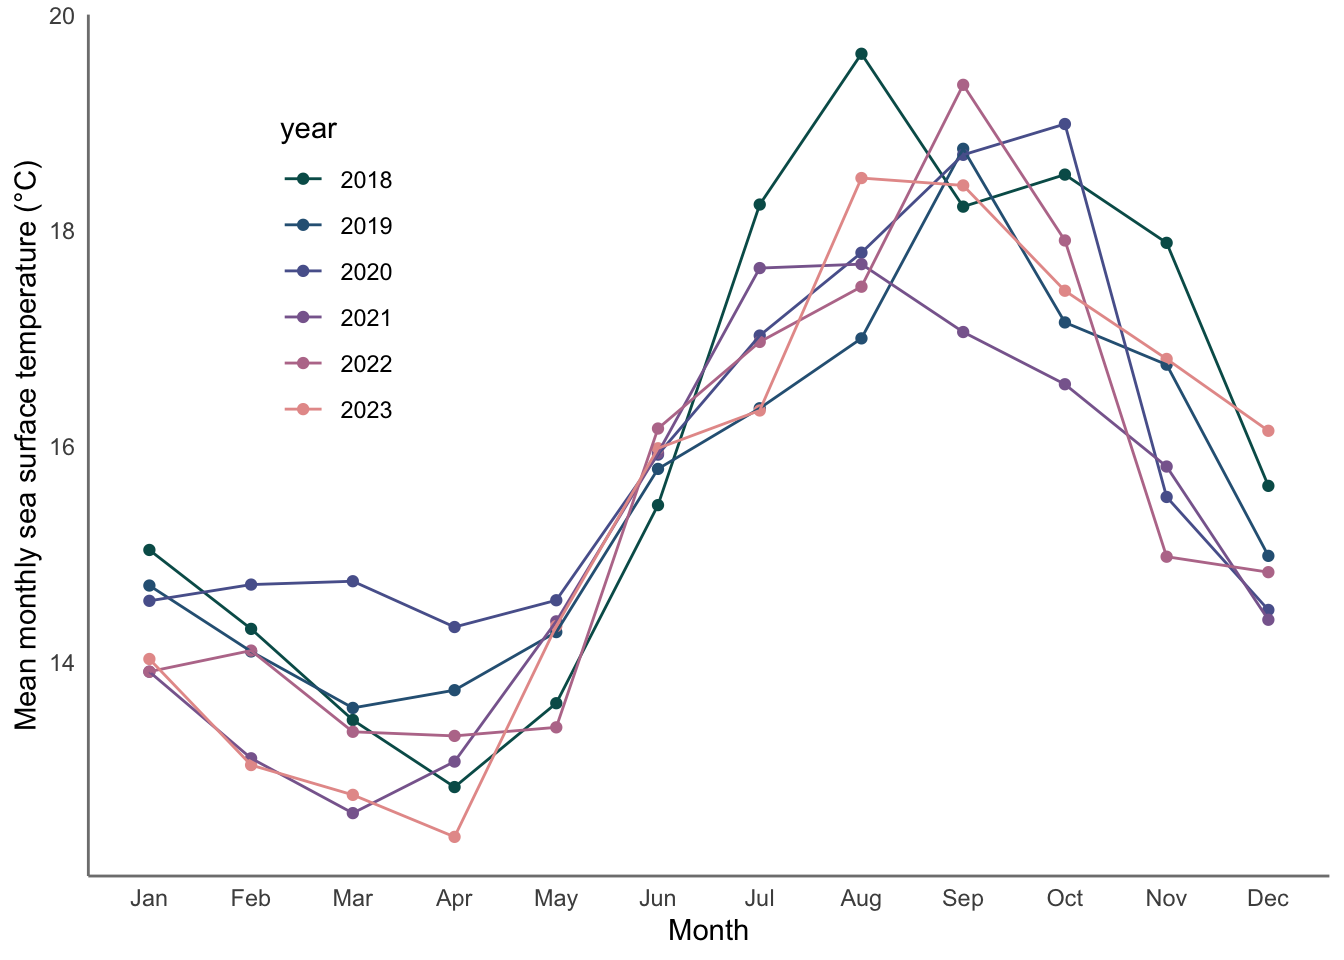
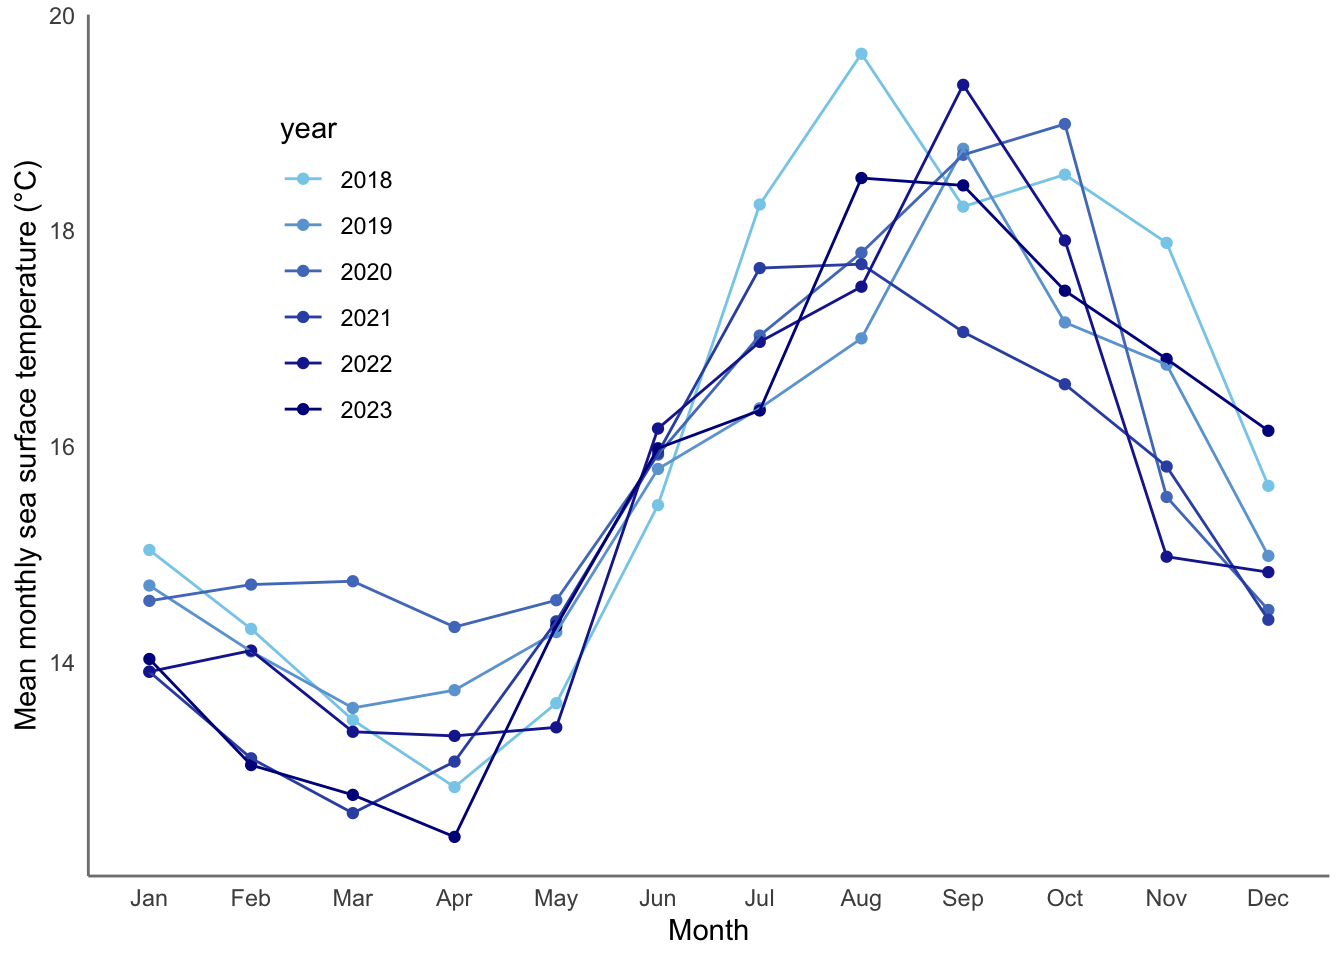
h. visualizing model predictions

diff --git a/code/Final.html b/code/Final.html
@@ -203,16 +203,16 @@ pre > code.sourceCode > span > a:first-child::before { text-decoration: underlin
 # Groups:   year [6]
     year month mean_monthly_sst
    &lt;dbl&gt; &lt;ord&gt;            &lt;dbl&gt;
- 1  2018 Jan               15.0
+ 1  2018 Dec               15.6
  2  2018 Feb               14.3
- 3  2018 Nov               17.9
- 4  2018 Dec               15.6
- 5  2018 Jun               15.5
- 6  2019 Aug               17.0
+ 3  2018 Mar               13.5
+ 4  2018 Aug               19.6
+ 5  2018 Apr               12.8
+ 6  2019 Apr               13.7
  7  2019 Dec               15.0
- 8  2019 Jun               15.8
- 9  2019 Oct               17.1
-10  2019 Apr               13.7
+ 8  2019 Mar               13.6
+ 9  2019 Jun               15.8
+10  2019 May               14.3
 # ℹ 20 more rows</code></pre>
 </div>
 <div class="sourceCode cell-code" id="cb5"><pre class="sourceCode r code-with-copy"><code class="sourceCode r"><span id="cb5-1"><a href="#cb5-1" aria-hidden="true" tabindex="-1"></a><span class="co"># Show structure</span></span>
@@ -252,7 +252,7 @@ pre > code.sourceCode > span > a:first-child::before { text-decoration: underlin
 <span id="cb7-11"><a href="#cb7-11" aria-hidden="true" tabindex="-1"></a>  <span class="fu">labs</span>(<span class="at">x =</span> <span class="st">"Month"</span>,</span>
 <span id="cb7-12"><a href="#cb7-12" aria-hidden="true" tabindex="-1"></a>       <span class="at">y =</span> <span class="st">"Mean monthly sea surface temperature (°C)"</span>) <span class="sc">+</span></span>
 <span id="cb7-13"><a href="#cb7-13" aria-hidden="true" tabindex="-1"></a>  <span class="fu">theme_minimal</span>()<span class="sc">+</span></span>
-<span id="cb7-14"><a href="#cb7-14" aria-hidden="true" tabindex="-1"></a>  <span class="fu">scale_color_manual</span>(<span class="at">values =</span> <span class="fu">pnw_palette</span>(<span class="st">"Starfish"</span>, <span class="dv">6</span>))<span class="sc">+</span></span>
+<span id="cb7-14"><a href="#cb7-14" aria-hidden="true" tabindex="-1"></a>  <span class="fu">scale_color_manual</span>(<span class="at">values =</span> <span class="fu">colorRampPalette</span>(<span class="fu">c</span>(<span class="st">"skyblue"</span>, <span class="st">"darkblue"</span>))(<span class="dv">6</span>))<span class="sc">+</span></span>
 <span id="cb7-15"><a href="#cb7-15" aria-hidden="true" tabindex="-1"></a>  <span class="fu">theme</span>(</span>
 <span id="cb7-16"><a href="#cb7-16" aria-hidden="true" tabindex="-1"></a>    <span class="at">legend.position =</span> <span class="fu">c</span>(<span class="fl">0.2</span>, <span class="fl">0.7</span>),</span>
 <span id="cb7-17"><a href="#cb7-17" aria-hidden="true" tabindex="-1"></a>    <span class="at">panel.grid =</span> <span class="fu">element_blank</span>(),</span>
@@ -339,16 +339,16 @@ pre > code.sourceCode > span > a:first-child::before { text-decoration: underlin
 <div class="sourceCode cell-code" id="cb11"><pre class="sourceCode r code-with-copy"><code class="sourceCode r"><span id="cb11-1"><a href="#cb11-1" aria-hidden="true" tabindex="-1"></a>  <span class="fu">slice_sample</span>(clean_data, <span class="at">n =</span> <span class="dv">10</span>)</span></code><button title="Copy to Clipboard" class="code-copy-button"><i class="bi"></i></button></pre></div>
 <div class="cell-output cell-output-stdout">
 <pre><code>        box season edge_distance    box_occupant
-1  boxrh116   2019           309    swift parrot
-2   boxrh97   2019           118    swift parrot
-3   boxrh70   2019           135 common starling
-4   boxrh04   2019           808     tree martin
-5  boxrh114   2016           373     tree martin
-6  boxrh129   2016           577     tree martin
-7   boxrh31   2019           718     tree martin
-8  boxrh103   2019           145 common starling
-9   boxrh84   2019           370    swift parrot
-10 boxrh114   2019           373 common starling</code></pre>
+1   boxrh70   2016           135     tree martin
+2   boxrh12   2019           697     tree martin
+3  boxrh117   2019           296 common starling
+4  boxrh134   2016           277    swift parrot
+5  boxrh128   2019           544     tree martin
+6   boxrh69   2016           115     tree martin
+7   boxrh95   2016           114    swift parrot
+8  boxrh135   2019           250    swift parrot
+9   boxrh42   2019           731     tree martin
+10  boxrh55   2019            84 common starling</code></pre>
 </div>
 </div>
 </section>
@@ -401,6 +401,19 @@ pre > code.sourceCode > span > a:first-child::before { text-decoration: underlin
 <p>Using Akaike’s Information Criterion (AIC) from the&nbsp;<code>MuMIn</code>&nbsp;package, choose the best model.</p>
 <p>In text, write what the best model was (i.e.&nbsp;“The best model as determined by Akaike’s Information Criterion (AIC)…”).</p>
 <p>Use the predictors and the response variable to describe the model, not the model number that you assigned.</p>
+<div class="cell">
+<div class="sourceCode cell-code" id="cb17"><pre class="sourceCode r code-with-copy"><code class="sourceCode r"><span id="cb17-1"><a href="#cb17-1" aria-hidden="true" tabindex="-1"></a><span class="fu">AICc</span>(model1,</span>
+<span id="cb17-2"><a href="#cb17-2" aria-hidden="true" tabindex="-1"></a>     model2,</span>
+<span id="cb17-3"><a href="#cb17-3" aria-hidden="true" tabindex="-1"></a>     model3,</span>
+<span id="cb17-4"><a href="#cb17-4" aria-hidden="true" tabindex="-1"></a>     model4)</span></code><button title="Copy to Clipboard" class="code-copy-button"><i class="bi"></i></button></pre></div>
+<div class="cell-output cell-output-stdout">
+<pre><code>       df     AICc
+model1  2 245.0324
+model2  3 242.5425
+model3  3 235.9030
+model4  4 232.5485</code></pre>
+</div>
+</div>
 </section>
 <section id="h.-visualize-the-model-predictions-24-points" class="level2">
 <h2 class="anchored" data-anchor-id="h.-visualize-the-model-predictions-24-points">h. Visualize the model predictions (24 points)</h2>
